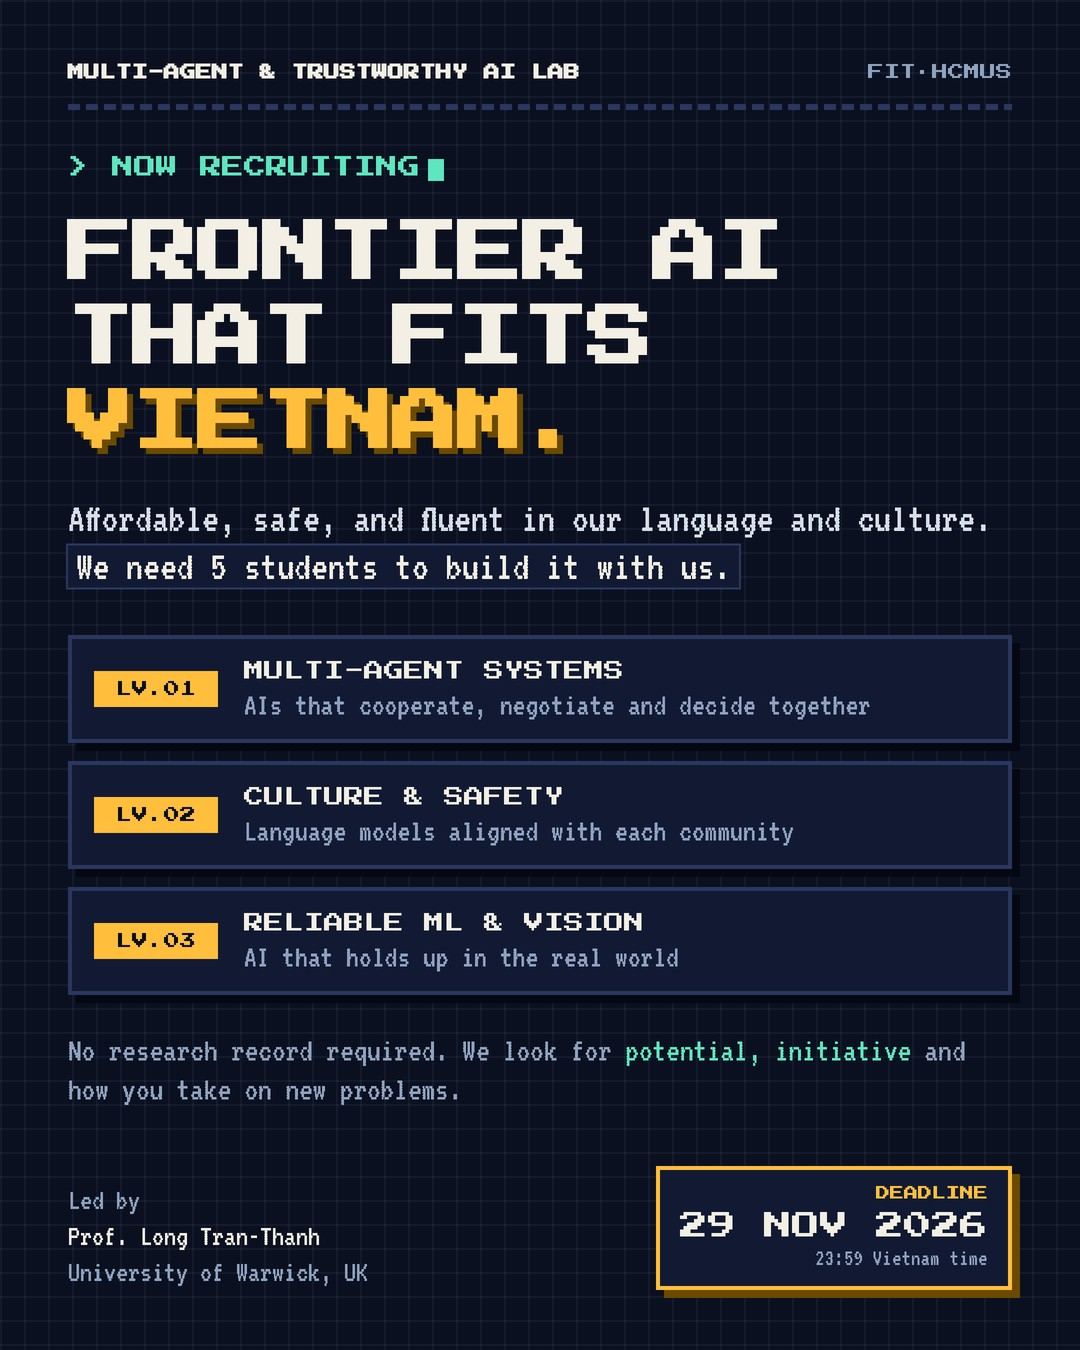
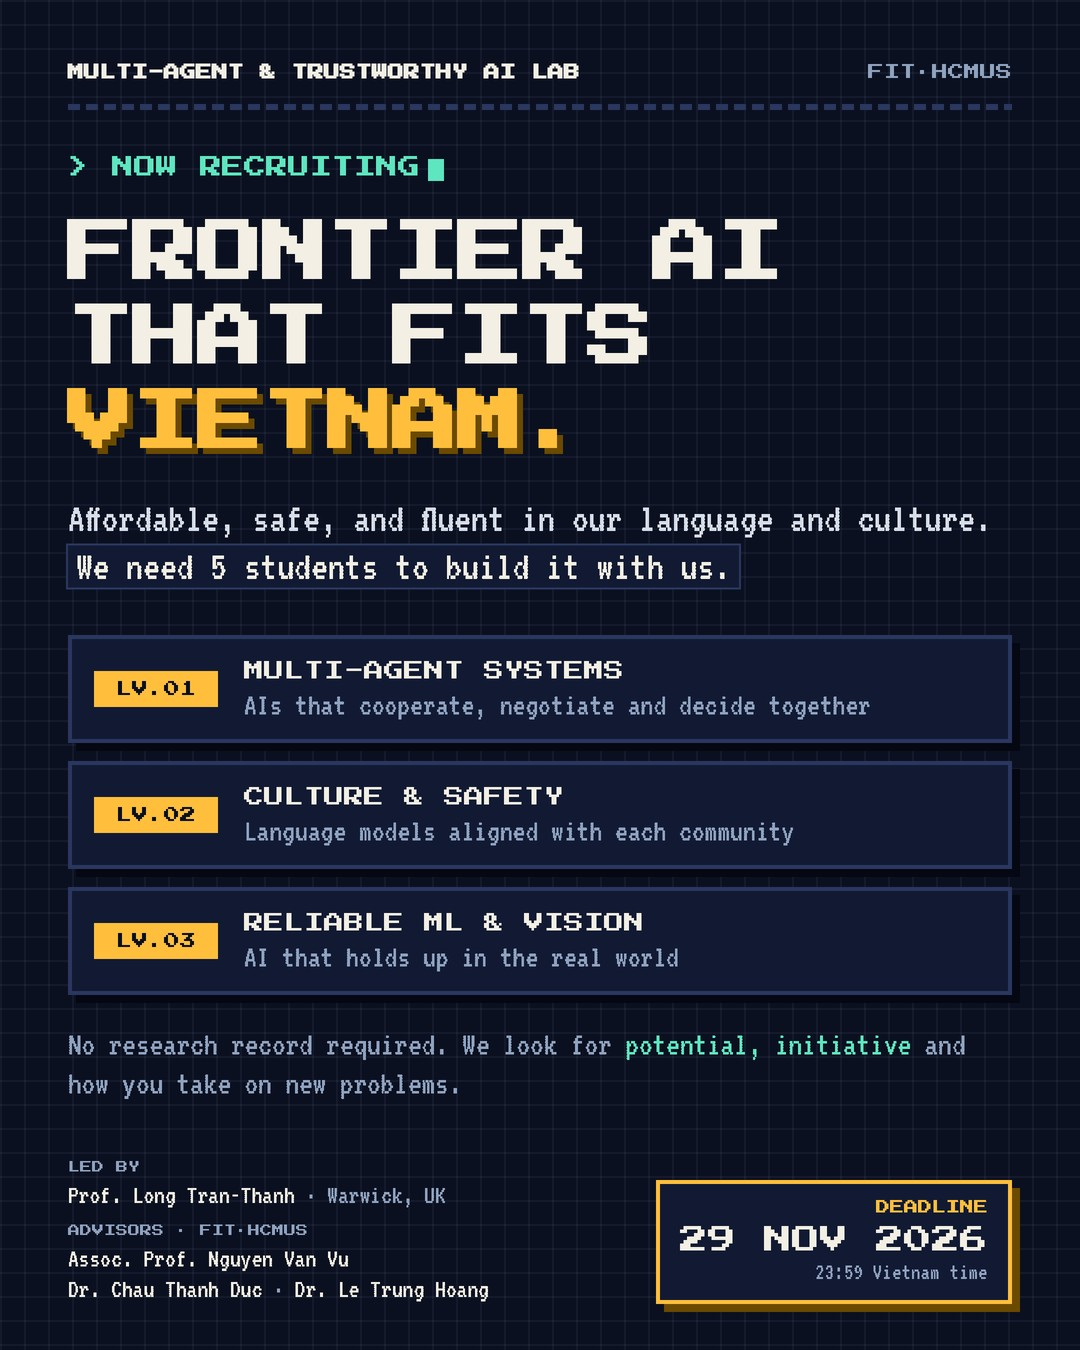
Cool slate light theme; add FIT-HCMUS advisors to cover

diff --git a/dist/index.html b/dist/index.html
@@ -1527,10 +1527,10 @@
 
     /* Pixel layer: pixel headings (VT323 covers Vietnamese), hard borders and block shadows, readable sans body */
     :root {
-      --bg: #f5f0e3; --surface: #fffaf0; --surface-2: #ece5d3; --surface-card: #fffaf0;
-      --ink: #111827; --ink-secondary: #374151; --muted: #5b6472; --line: #111827; --line-subtle: #d6cdb5;
-      --primary: #111827; --primary-hover: #1f2937; --badge-bg: #fffaf0; --badge-text: #111827; --hero-sub: #374151;
-      --px-acc: #c27400; --px-acc-bg: #ffbf3c; --px-acc2: #137a5e; --px-shadow: #111827; --px-grid: rgba(17,24,39,.06);
+      --bg: #eef1f6; --surface: #ffffff; --surface-2: #e2e7f0; --surface-card: #ffffff;
+      --ink: #0b1020; --ink-secondary: #2b3550; --muted: #56617a; --line: #0b1020; --line-subtle: #c5cddd;
+      --primary: #0b1020; --primary-hover: #1b2440; --badge-bg: #ffffff; --badge-text: #0b1020; --hero-sub: #2b3550;
+      --px-acc: #b86e00; --px-acc-bg: #ffbf3c; --px-acc2: #137a5e; --px-shadow: #0b1020; --px-grid: rgba(11,16,32,.055);
       --radius: 0; --radius-sm: 0; --radius-pill: 0;
       --font-px: "VT323", ui-monospace, monospace; --font-px-latin: "Press Start 2P", ui-monospace, monospace;
     }

diff --git a/index.html b/index.html
@@ -1527,10 +1527,10 @@
 
     /* Pixel layer: pixel headings (VT323 covers Vietnamese), hard borders and block shadows, readable sans body */
     :root {
-      --bg: #f5f0e3; --surface: #fffaf0; --surface-2: #ece5d3; --surface-card: #fffaf0;
-      --ink: #111827; --ink-secondary: #374151; --muted: #5b6472; --line: #111827; --line-subtle: #d6cdb5;
-      --primary: #111827; --primary-hover: #1f2937; --badge-bg: #fffaf0; --badge-text: #111827; --hero-sub: #374151;
-      --px-acc: #c27400; --px-acc-bg: #ffbf3c; --px-acc2: #137a5e; --px-shadow: #111827; --px-grid: rgba(17,24,39,.06);
+      --bg: #eef1f6; --surface: #ffffff; --surface-2: #e2e7f0; --surface-card: #ffffff;
+      --ink: #0b1020; --ink-secondary: #2b3550; --muted: #56617a; --line: #0b1020; --line-subtle: #c5cddd;
+      --primary: #0b1020; --primary-hover: #1b2440; --badge-bg: #ffffff; --badge-text: #0b1020; --hero-sub: #2b3550;
+      --px-acc: #b86e00; --px-acc-bg: #ffbf3c; --px-acc2: #137a5e; --px-shadow: #0b1020; --px-grid: rgba(11,16,32,.055);
       --radius: 0; --radius-sm: 0; --radius-pill: 0;
       --font-px: "VT323", ui-monospace, monospace; --font-px-latin: "Press Start 2P", ui-monospace, monospace;
     }
